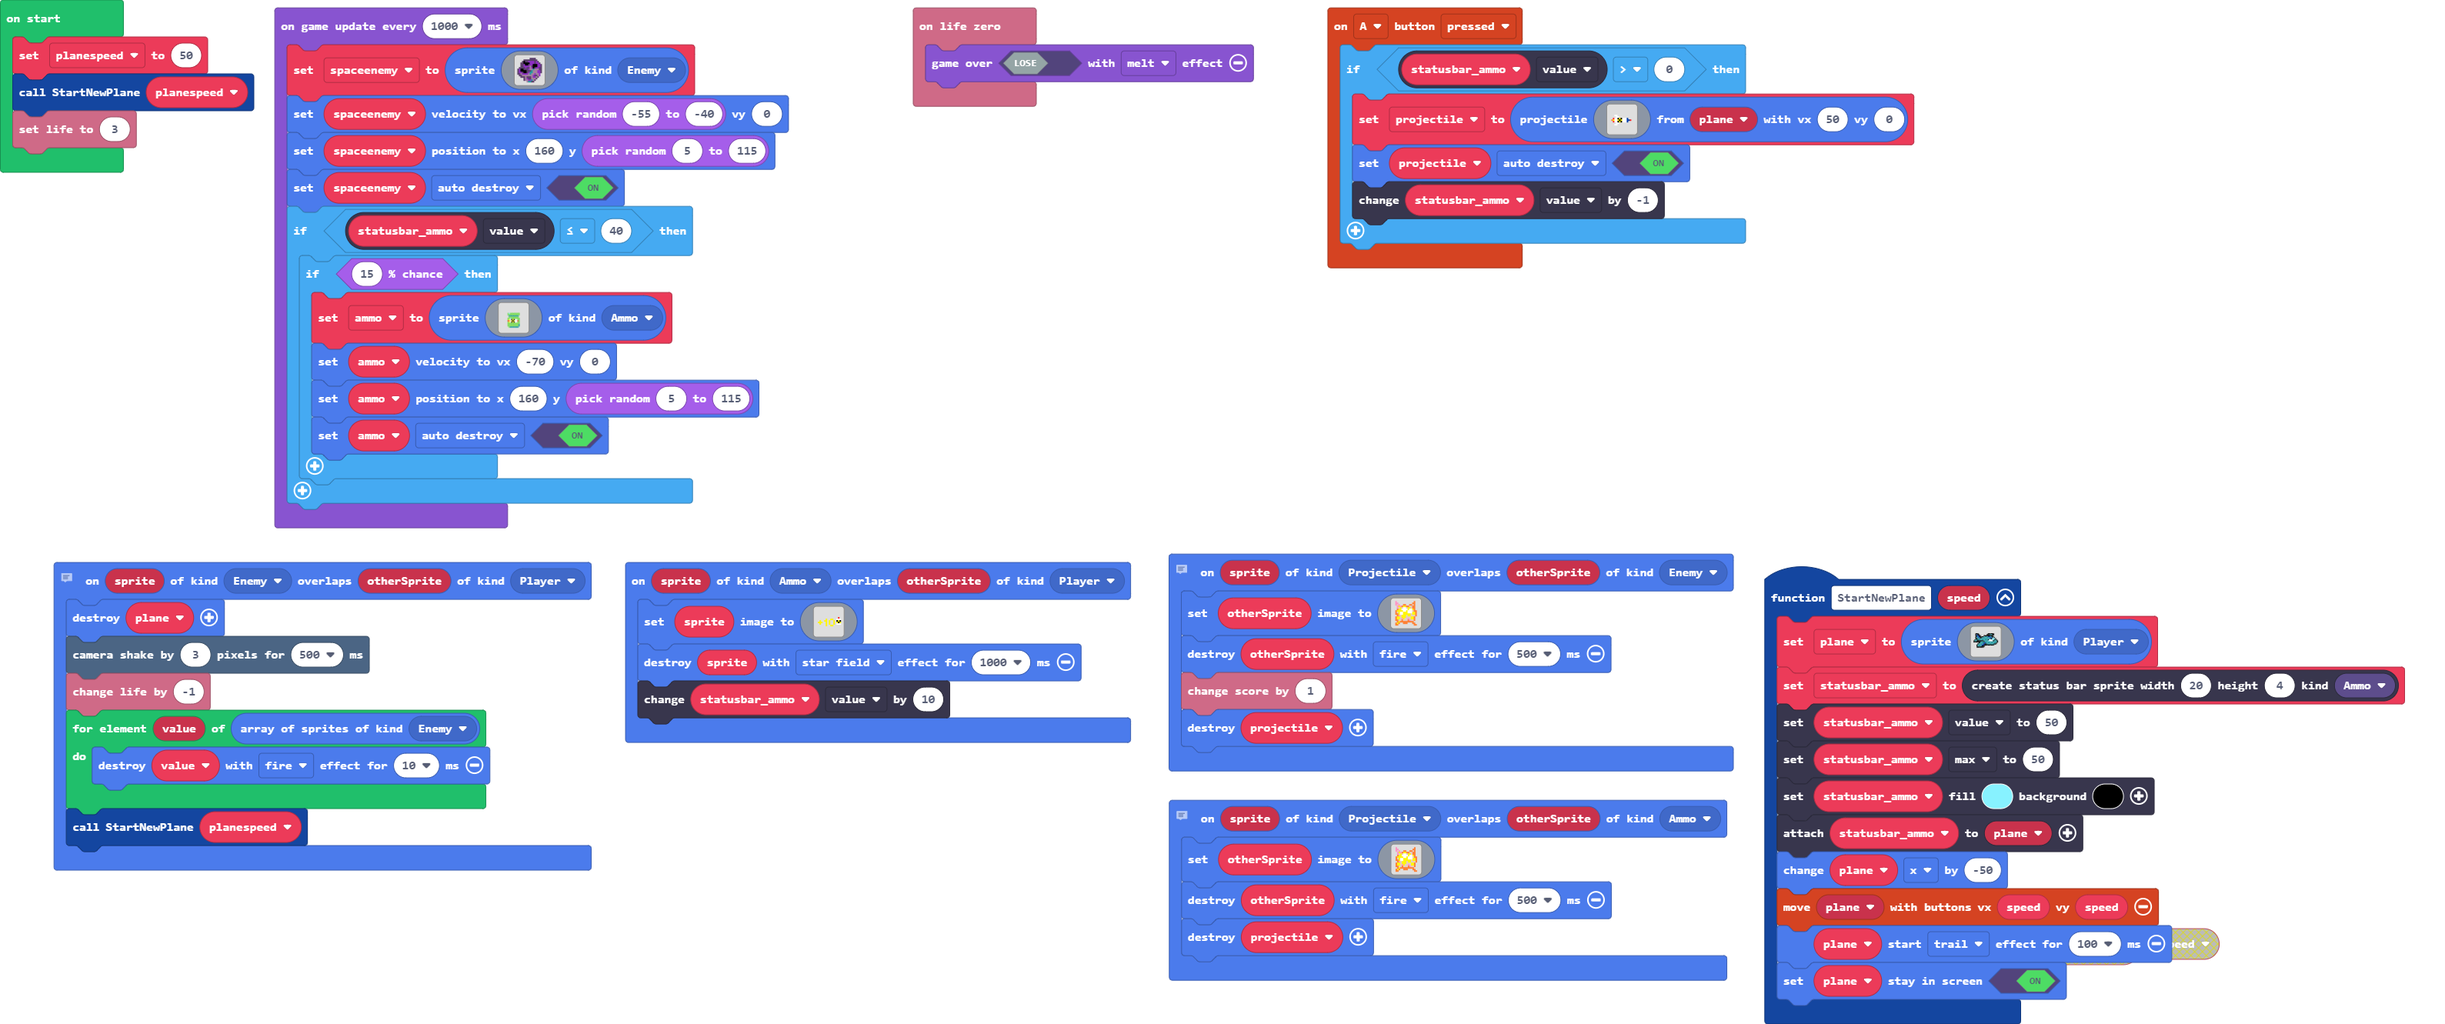
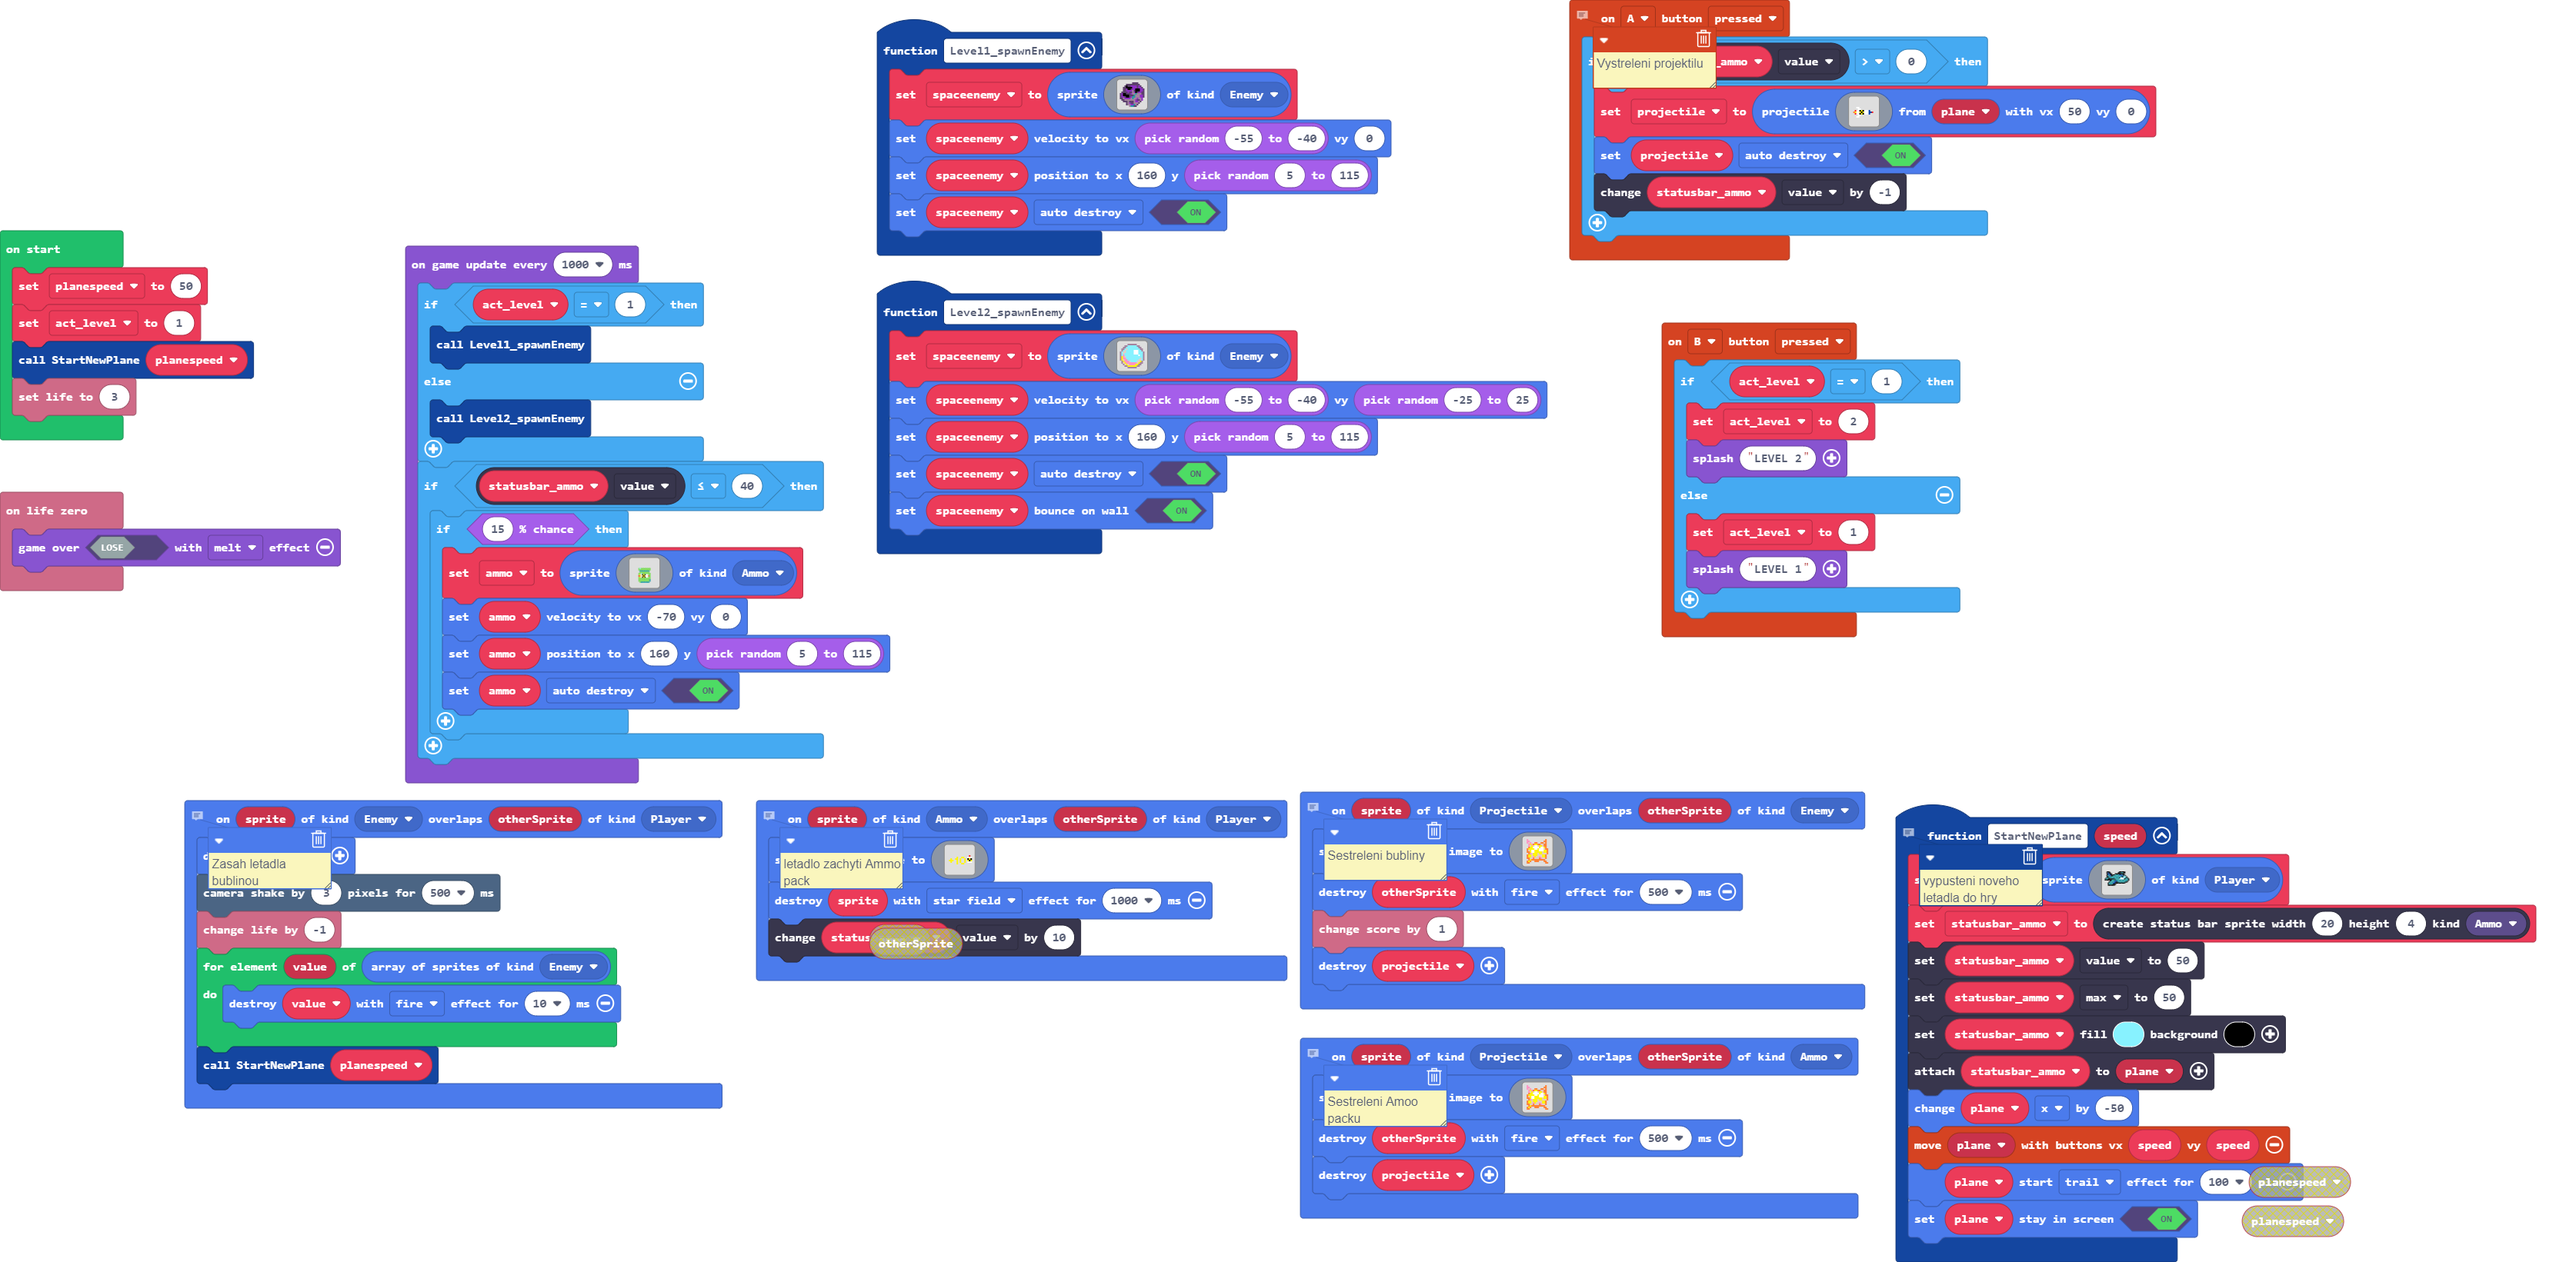
Update pxt.json, main.blocks, main.ts, tilemap.g.jres, tilemap.g.ts

diff --git a/main.ts b/main.ts
@@ -4,6 +4,8 @@ namespace SpriteKind {
 namespace StatusBarKind {
     export const Ammo = StatusBarKind.create()
 }
+// vypusteni noveho letadla do hry
+// 
 function StartNewPlane (speed: number) {
     plane = sprites.create(img`
         ..fff.........ffffff....
@@ -33,6 +35,16 @@ function StartNewPlane (speed: number) {
     plane.startEffect(effects.trail, 100)
     plane.setStayInScreen(true)
 }
+controller.B.onEvent(ControllerButtonEvent.Pressed, function () {
+    if (act_level == 1) {
+        act_level = 2
+        game.splash("LEVEL 2")
+    } else {
+        act_level = 1
+        game.splash("LEVEL 1")
+    }
+})
+// Vystreleni projektilu
 controller.A.onEvent(ControllerButtonEvent.Pressed, function () {
     if (statusbar_ammo.value > 0) {
         projectile = sprites.createProjectileFromSprite(img`
@@ -57,6 +69,30 @@ controller.A.onEvent(ControllerButtonEvent.Pressed, function () {
         statusbar_ammo.value += -1
     }
 })
+function Level2_spawnEnemy () {
+    spaceenemy = sprites.create(img`
+        . . . . . b b b b b b . . . . . 
+        . . . b b 9 9 9 9 9 9 b b . . . 
+        . . b b 9 9 9 9 9 9 9 9 b b . . 
+        . b b 9 d 9 9 9 9 9 9 9 9 b b . 
+        . b 9 d 9 9 9 9 9 1 1 1 9 9 b . 
+        b 9 d d 9 9 9 9 9 1 1 1 9 9 9 b 
+        b 9 d 9 9 9 9 9 9 1 1 1 9 9 9 b 
+        b 9 3 9 9 9 9 9 9 9 9 9 1 9 9 b 
+        b 5 3 d 9 9 9 9 9 9 9 9 9 9 9 b 
+        b 5 3 3 9 9 9 9 9 9 9 9 9 d 9 b 
+        b 5 d 3 3 9 9 9 9 9 9 9 d d 9 b 
+        . b 5 3 3 3 d 9 9 9 9 d d 5 b . 
+        . b d 5 3 3 3 3 3 3 3 d 5 b b . 
+        . . b d 5 d 3 3 3 3 5 5 b b . . 
+        . . . b b 5 5 5 5 5 5 b b . . . 
+        . . . . . b b b b b b . . . . . 
+        `, SpriteKind.Enemy)
+    spaceenemy.setVelocity(randint(-55, -40), randint(-25, 25))
+    spaceenemy.setPosition(160, randint(5, 115))
+    spaceenemy.setFlag(SpriteFlag.AutoDestroy, true)
+    spaceenemy.setBounceOnWall(true)
+}
 // Zasah letadla bublinou
 sprites.onOverlap(SpriteKind.Enemy, SpriteKind.Player, function (sprite, otherSprite) {
     plane.destroy()
@@ -67,9 +103,33 @@ sprites.onOverlap(SpriteKind.Enemy, SpriteKind.Player, function (sprite, otherSp
     }
     StartNewPlane(planespeed)
 })
+function Level1_spawnEnemy () {
+    spaceenemy = sprites.create(img`
+        . . . . . . . . c c c c . . . . 
+        . . . . c c c c c c c c c . . . 
+        . . . c f c c a a a a c a c . . 
+        . . c c f f f f a a a c a a c . 
+        . . c c a f f c a a f f f a a c 
+        . . c c a a a a b c f f f a a c 
+        . c c c c a c c b a f c a a c c 
+        c a f f c c c a b b 6 b b b c c 
+        c a f f f f c c c 6 b b b a a c 
+        c a a c f f c a 6 6 b b b a a c 
+        c c b a a a a b 6 b b a b b a . 
+        . c c b b b b b b b a c c b a . 
+        . . c c c b c c c b a a b c . . 
+        . . . . c b a c c b b b c . . . 
+        . . . . c b b a a 6 b c . . . . 
+        . . . . . . b 6 6 c c . . . . . 
+        `, SpriteKind.Enemy)
+    spaceenemy.setVelocity(randint(-55, -40), 0)
+    spaceenemy.setPosition(160, randint(5, 115))
+    spaceenemy.setFlag(SpriteFlag.AutoDestroy, true)
+}
 info.onLifeZero(function () {
     game.over(false, effects.melt)
 })
+// letadlo zachyti Ammo pack
 sprites.onOverlap(SpriteKind.Ammo, SpriteKind.Player, function (sprite, otherSprite) {
     sprite.setImage(img`
         . . . . . . . . . . . . . . . . 
@@ -92,7 +152,7 @@ sprites.onOverlap(SpriteKind.Ammo, SpriteKind.Player, function (sprite, otherSpr
     sprite.destroy(effects.starField, 1000)
     statusbar_ammo.value += 10
 })
-// Sestreleni bubliny
+// Sestreleni Amoo packu
 sprites.onOverlap(SpriteKind.Projectile, SpriteKind.Ammo, function (sprite, otherSprite) {
     otherSprite.setImage(img`
         . 3 . . . . . . . . . . . 4 . . 
@@ -144,32 +204,18 @@ let spaceenemy: Sprite = null
 let projectile: Sprite = null
 let statusbar_ammo: StatusBarSprite = null
 let plane: Sprite = null
+let act_level = 0
 let planespeed = 0
 planespeed = 50
+act_level = 1
 StartNewPlane(planespeed)
 info.setLife(3)
 game.onUpdateInterval(1000, function () {
-    spaceenemy = sprites.create(img`
-        . . . . . . . . c c c c . . . . 
-        . . . . c c c c c c c c c . . . 
-        . . . c f c c a a a a c a c . . 
-        . . c c f f f f a a a c a a c . 
-        . . c c a f f c a a f f f a a c 
-        . . c c a a a a b c f f f a a c 
-        . c c c c a c c b a f c a a c c 
-        c a f f c c c a b b 6 b b b c c 
-        c a f f f f c c c 6 b b b a a c 
-        c a a c f f c a 6 6 b b b a a c 
-        c c b a a a a b 6 b b a b b a . 
-        . c c b b b b b b b a c c b a . 
-        . . c c c b c c c b a a b c . . 
-        . . . . c b a c c b b b c . . . 
-        . . . . c b b a a 6 b c . . . . 
-        . . . . . . b 6 6 c c . . . . . 
-        `, SpriteKind.Enemy)
-    spaceenemy.setVelocity(randint(-55, -40), 0)
-    spaceenemy.setPosition(160, randint(5, 115))
-    spaceenemy.setFlag(SpriteFlag.AutoDestroy, true)
+    if (act_level == 1) {
+        Level1_spawnEnemy()
+    } else {
+        Level2_spawnEnemy()
+    }
     if (statusbar_ammo.value <= 40) {
         if (Math.percentChance(15)) {
             ammo = sprites.create(img`

diff --git a/tilemap.g.ts b/tilemap.g.ts
@@ -1,0 +1,14 @@
+// Auto-generated code. Do not edit.
+namespace myTiles {
+    //% fixedInstance jres blockIdentity=images._tile
+    export const transparency16 = image.ofBuffer(hex``);
+
+    helpers._registerFactory("tile", function(name: string) {
+        switch(helpers.stringTrim(name)) {
+            case "transparency16":return transparency16;
+        }
+        return null;
+    })
+
+}
+// Auto-generated code. Do not edit.
